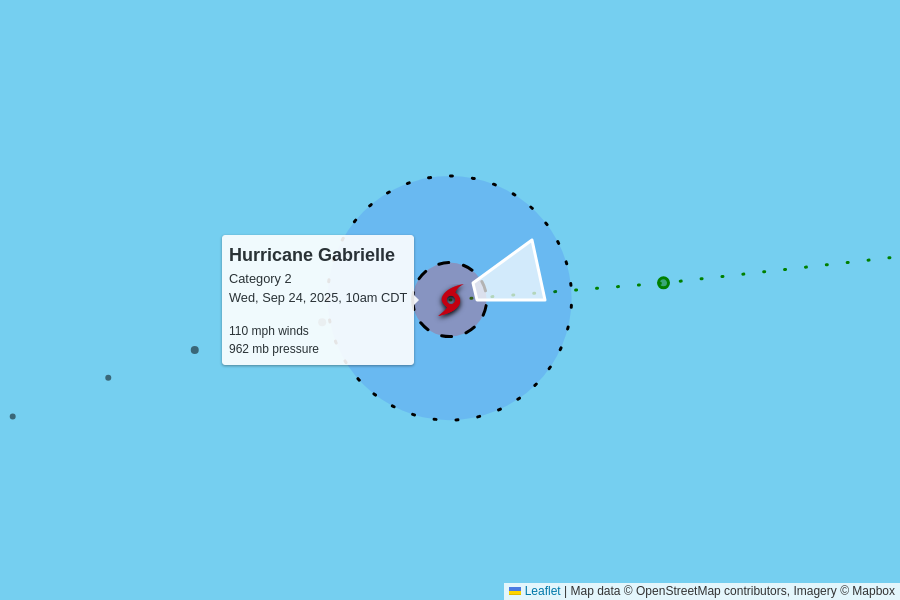
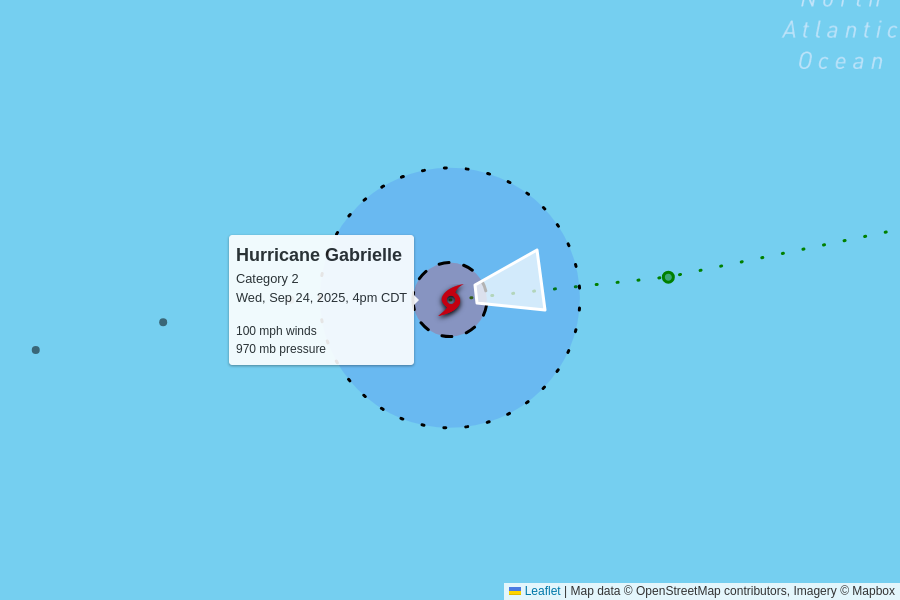
automatic update

diff --git a/docs/index.html b/docs/index.html
@@ -96,13 +96,15 @@
     </p>
 
     
+    <h2>2 active storms</h2>
+    <img src="active.png">
 
     <table>
       <tr>
         <td colspan="6" class="storm category-2" >
           <h2>
             Hurricane Gabrielle - Category 2
-            <p class="updated">last updated <span data-time>2025-09-24T15:00:00.000Z</span></p>
+            <p class="updated">last updated <span data-time>2025-09-24T21:00:00.000Z</span></p>
           </h2>
         </td>
       </tr>
@@ -117,12 +119,12 @@
       </tr>
       <tr>
         <td class="spacer"></td>
-        <td>110 mph<br>-5 mph since last update</td>
-        <td>962 mb<br>+3 mb since last update</td>
+        <td>100 mph<br>-10 mph since last update</td>
+        <td>970 mb<br>+8 mb since last update</td>
         <td>
-          25 mph to the east-northeast
+          28 mph to the east
           <br/>
-          <span style="display: inline-block; font-size: 1.5em; transform: rotate(75deg);">↑</span>
+          <span style="display: inline-block; font-size: 1.5em; transform: rotate(80deg);">↑</span>
         </td>
         <td><a href="https://raw.githubusercontent.com/mgwalker/atlantic-hurricanes/main/data/csv/AL072025.csv">AL072025.csv</a></td>
         <td><a href="https://www.nhc.noaa.gov/archive/2025/GABRIELLE.shtml?">NHC advisories</a></td>
@@ -132,6 +134,50 @@
         <td colspan="5">
           <figure>
             <img src="AL072025.png">
+            <figcaption>
+              Map data &copy; <a href="https://www.openstreetmap.org/copyright">OpenStreetMap</a> contributors,
+              Imagery &copy; <a href="https://www.mapbox.com/">Mapbox</a> |
+              <a href="https://www.mapbox.com/map-feedback/" target="_blank">Improve this map</a>
+            </figcaption>
+          </figure>
+        </td>
+      </tr>
+      
+
+      <tr>
+        <td colspan="6" class="storm category-0" >
+          <h2>
+            Tropical Storm Humberto
+            <p class="updated">last updated <span data-time>2025-09-24T21:00:00.000Z</span></p>
+          </h2>
+        </td>
+      </tr>
+      
+      <tr>
+        <th class="spacer"></th>
+        <th>wind speed</th>
+        <th>central pressure</th>
+        <th>movement</th>
+        <th>data (CSV)</th>
+        <th>National Hurricane Center</th>
+      </tr>
+      <tr>
+        <td class="spacer"></td>
+        <td>40 mph</td>
+        <td>1008 mb</td>
+        <td>
+          15 mph to the west-northwest
+          <br/>
+          <span style="display: inline-block; font-size: 1.5em; transform: rotate(300deg);">↑</span>
+        </td>
+        <td><a href="https://raw.githubusercontent.com/mgwalker/atlantic-hurricanes/main/data/csv/AL082025.csv">AL082025.csv</a></td>
+        <td><a href="https://www.nhc.noaa.gov/archive/2025/HUMBERTO.shtml?">NHC advisories</a></td>
+      </tr>
+      <tr id="storm_AL082025" >
+        <td class="spacer">
+        <td colspan="5">
+          <figure>
+            <img src="AL082025.png">
             <figcaption>
               Map data &copy; <a href="https://www.openstreetmap.org/copyright">OpenStreetMap</a> contributors,
               Imagery &copy; <a href="https://www.mapbox.com/">Mapbox</a> |
